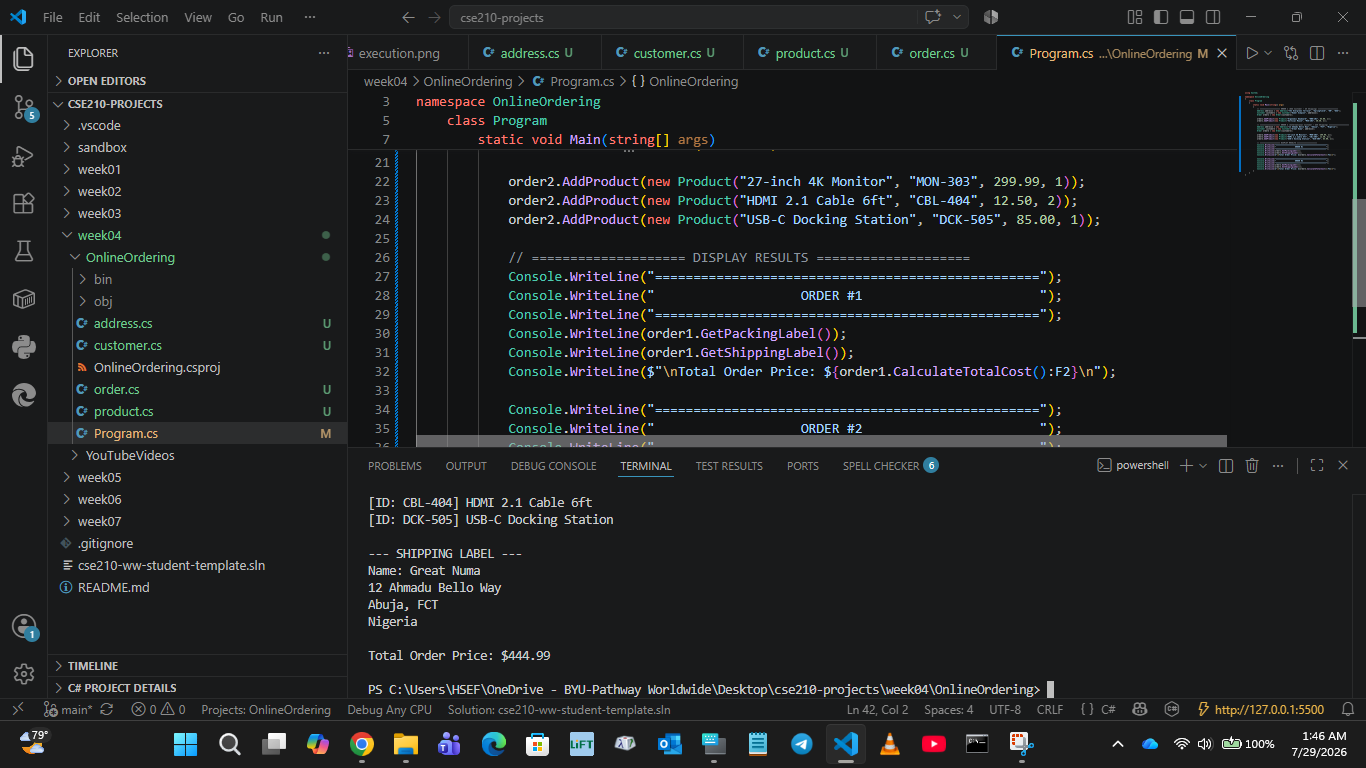
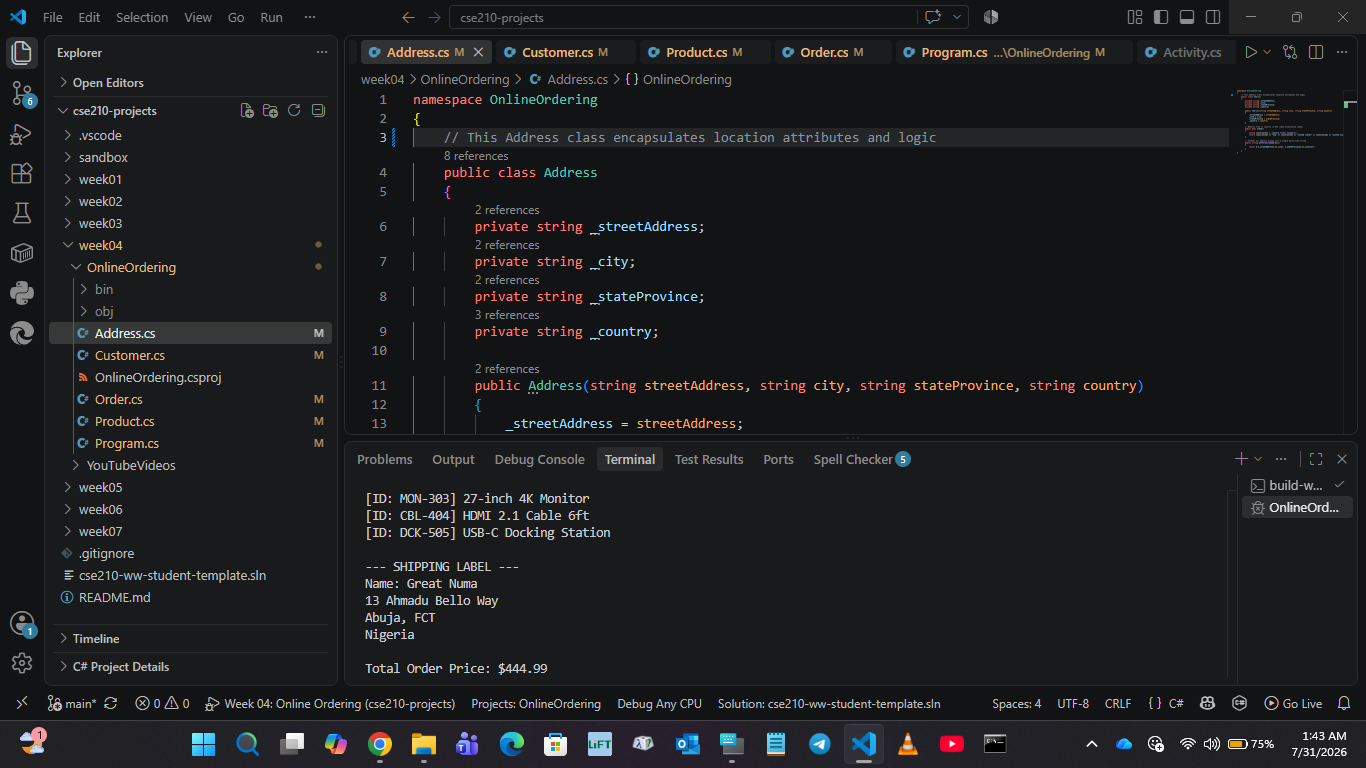
onlineorderingnew

diff --git a/week04/OnlineOrdering/Program.cs b/week04/OnlineOrdering/Program.cs
@@ -15,7 +15,7 @@ namespace OnlineOrdering
             order1.AddProduct(new Product("Vertical Mouse", "MSE-202", 30.50, 2));
 
             // ==================== ORDER 2 (International Customer - $35 Shipping) ====================
-            Address address2 = new Address("12 Ahmadu Bello Way", "Abuja", "FCT", "Nigeria");
+            Address address2 = new Address("13 Ahmadu Bello Way", "Abuja", "FCT", "Nigeria");
             Customer customer2 = new Customer("Great Numa", address2);
             Order order2 = new Order(customer2);
 

diff --git a/week04/OnlineOrdering/order.cs b/week04/OnlineOrdering/order.cs
@@ -2,7 +2,7 @@ using System.Collections.Generic;
 
 namespace OnlineOrdering
 {
-    // The Order class manages product lists, calculates shipping fees, and generates labels
+    // This Order class manages product lists, calculates shipping fees, and generates labels
     public class Order
     {
         private List<Product> _products;

diff --git a/week04/OnlineOrdering/customer.cs b/week04/OnlineOrdering/customer.cs
@@ -1,6 +1,6 @@
 namespace OnlineOrdering
 {
-    // The Customer class encapsulates customer details and delegates address checks
+    // This Customer class encapsulates customer details and delegates address checks
     public class Customer
     {
         private string _name;

diff --git a/week04/OnlineOrdering/product.cs b/week04/OnlineOrdering/product.cs
@@ -1,6 +1,6 @@
 namespace OnlineOrdering
 {
-    // The Product class tracks pricing metrics and calculates total item cost
+    // This Product class tracks pricing metrics and calculates total item cost
     public class Product
     {
         private string _name;

diff --git a/week04/OnlineOrdering/address.cs b/week04/OnlineOrdering/address.cs
@@ -1,6 +1,6 @@
 namespace OnlineOrdering
 {
-    // The Address class encapsulates location attributes and logic
+    // This Address class encapsulates location attributes and logic
     public class Address
     {
         private string _streetAddress;
